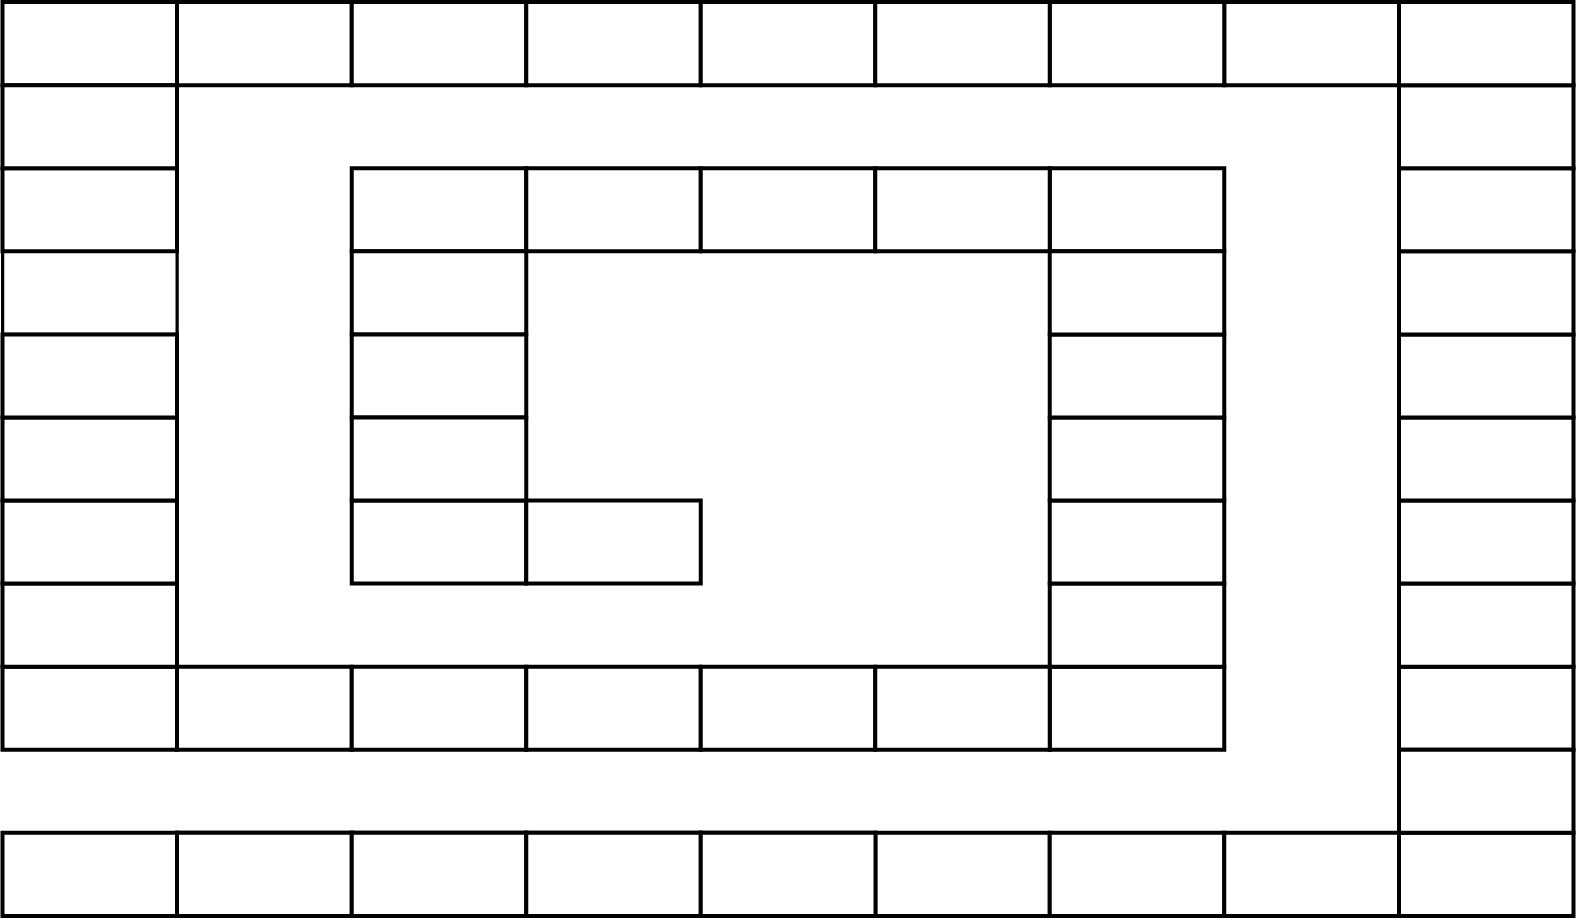
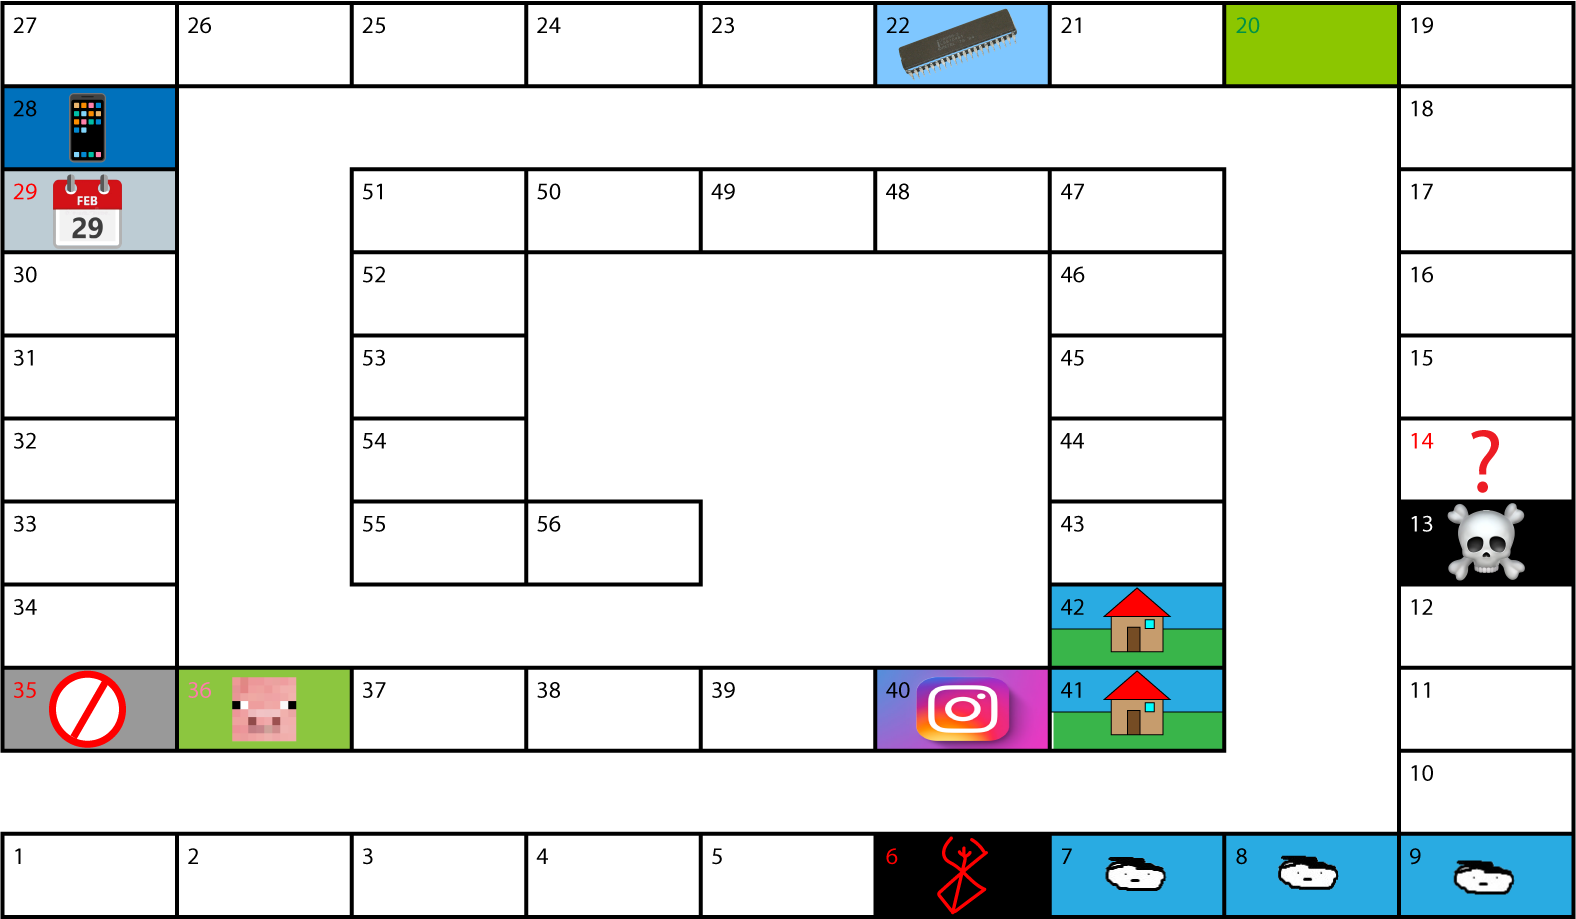
aggiornato movimento players, ancora da finire. Cambiata immagine mappa

diff --git a/main.cpp b/main.cpp
@@ -20,14 +20,15 @@ struct Player {
     int numero;
     string nome;
     float x, y;
+    float initX, initY;
     int casella = 0;
     bool staGiocando = false;
     sf::Color colore;
     sf::CircleShape shape; // Rappresenta il giocatore con un cerchio
 
     Player(string nome, sf::Color colore, int numero, int x, int y) {
-        this->x = x;
-        this->y = y;
+        this->x = initX = x;
+        this->y = initY = y;
         this->numero = numero;
         this->nome = nome;
         this->colore = colore;
@@ -145,10 +146,10 @@ int main() {
     mappa.sprite.setScale(0.8, 0.85); // Risetta la scala della mappa
     font.loadFromFile("data/arial.ttf"); // Carica il font
     // Crea i player
-    players.push_back(Player("Giocatore", sf::Color::Red, 1, WIDTH*1.39/4, HEIGHT*2.667/4));
-    players.push_back(Player("CPU 1", sf::Color::Blue, 2, WIDTH*1.49/4, HEIGHT*2.667/4));
-    players.push_back(Player("CPU 2", sf::Color::Green, 3, WIDTH*1.39/4, HEIGHT*2.795/4));
-    players.push_back(Player("CPU 3", sf::Color::Yellow, 4, WIDTH*1.49/4, HEIGHT*2.795/4));
+    players.push_back(Player("Giocatore", sf::Color::Red, 1, WIDTH*0.2745, HEIGHT*2.6669/4));
+    players.push_back(Player("CPU 1", sf::Color::Blue, 2, WIDTH*0.2995, HEIGHT*2.6669/4));
+    players.push_back(Player("CPU 2", sf::Color::Green, 3, WIDTH*0.2745, HEIGHT*2.796/4));
+    players.push_back(Player("CPU 3", sf::Color::Yellow, 4, WIDTH*0.2995, HEIGHT*2.796/4));
     // Crea il menu
     sf::RectangleShape shape;
     sf::Text testo;
@@ -341,31 +342,22 @@ void controlloCasella(Player& player) {
 
     switch(player.casella) {
     case 1:
-        player.x += player.casella * WIDTH*0.05;
         break;
     case 2:
-        player.x  += player.casella * WIDTH*0.05;
         break;
     case 3:
-        player.x += player.casella * WIDTH*0.05;
         break;
     case 4:
-        player.x += player.casella * WIDTH*0.05;
         break;
     case 5:
-        player.x += player.casella * WIDTH*0.05;
         break;
     case 6:
-        player.x += player.casella * WIDTH*0.05;
         break;
     case 7:
-        player.x += player.casella * WIDTH*0.05;
         break;
     case 8:
-        player.x += player.casella * WIDTH*0.05;
         break;
     case 9:
-        player.x += player.casella * WIDTH*0.05;
         break;
     case 10:
         break;
@@ -393,7 +385,50 @@ void controlloCasella(Player& player) {
         break;
     }
 
+
+    const float casellaX = WIDTH*0.073;
+    const float casellaY = HEIGHT*0.06534;
+
+    if (player.casella <= 9) { // Gestione caselle da 1 a 9
+        player.x += player.casella * casellaX;
+    }
+    else if (player.casella <= 19) { // Gestione caselle da 10 a 19
+        player.x = player.initX + 9 * casellaX;
+        player.y -= (player.casella - 9) * casellaY;
+    }
+    else if (player.casella <= 27) { // Gestione caselle da 20 a 27
+        player.x = player.initX + 9 * casellaX;
+        player.y = player.initY - 10 * casellaY;
+        player.x -= (player.casella - 19) * casellaX;
+    }
+    else if (player.casella <= 35) { // Gestione caselle da 28 a 35
+        player.x = player.initX + casellaX;
+        player.y = player.initY - 10 * casellaY;
+        player.y += (player.casella - 27) * casellaY;
+    }
+    else if (player.casella <= 41) { // Gestione caselle da 36 a 41
+        player.x = player.initX + casellaX;
+        player.y = player.initY - 2 * casellaY;
+        player.x += (player.casella - 35) * casellaX;
+    }
+    else if (player.casella <= 47) { // Gestione caselle da 42 a 47
+        player.x = player.initX + 7 * casellaX;
+        player.y = player.initY - 2 * casellaY;
+        player.y += (player.casella - 41) * casellaY;
+    }
+    else if (player.casella <= 51) { // Gestione caselle da 48 a 51
+        player.x = player.initX + 7 * casellaX;
+        player.y = player.initY + 6 * casellaY;
+        player.x -= (player.casella - 47) * casellaX;
+    }
+    else if (player.casella <= 55) {
+        player.x = player.initX + casellaX;
+        player.y = player.initY + 6 * casellaY;
+        player.y -= (player.casella - 51) * casellaY;
+    }
+
     player.setPosition(player.x, player.y);
+
 }
 
 
